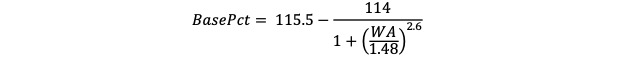
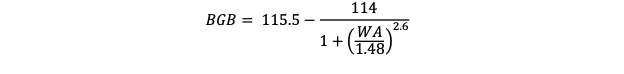
Syllabus revisions

Changed region(s): [[0.4872, 0.2432, 0.7003, 0.7297], [0.3045, 0.1622, 0.5481, 0.3514], [0.5481, 0.027, 0.6394, 0.1892]]

diff --git a/docs/syllabus.md b/docs/syllabus.md
@@ -119,17 +119,17 @@ Final coures grades will be assigned based on homework, lab and exam scores as d
    Homework   | 60%
    Labs       | 40%
 
-2. That *weighted average* will be used to compute a *base percentage* for the course using the scale below:
+2. That *weighted average* will be used to compute a *base grade percentage* for the course using the scale below:
 
-   ![Graph of conversion scale from weighted average to base percentage.](images/BasePercentGraph.jpg)
+   ![Graph of conversion scale from weighted average to base grade percentage.](images/BasePercentGraph.jpg)
 
-   The precice formula for the conversion from a *weighted average* to a *base percentage* is:
+   The precice formula for the conversion from a *weighted average* (WA) to a *base grade percentage* (BGP) is:
 
    ![Formula for converting weighted average to base percentage.](images/WeightedAveToBasePct.jpg)
+ 
+3. Your *base grade percentage* will be rounded to the nearest whole number and converted to a *base grade* using a standard grading scale as follows:
 
-3. Your *base percentage* will be rounded to the nearest whole number and is converted into a *base grade* using a standard grading scale as follows:
-
-   Base<br>Percentage       | Base<br>Grade
+   Base Grade<br>Percentage | Base<br>Grade
    ------------------------ | -------------
    &gt;= 93%                | A
    &gt;= 90% and &lt; 93%   | A-
@@ -144,10 +144,10 @@ Final coures grades will be assigned based on homework, lab and exam scores as d
    &gt;= 60% and &lt; 63%   | D-
    &lt; 60%                 | F
 
-4. Your *base grade* is then adjusted up or down based on your exam scores to determine your *course grade*.  Exam scores will be averaged with each midterm having a weight of 30% and the final exam having a weight of 40%.  This average will then be used to adjust your *base grade* up or down as follows:
+4. Your *base grade* is then adjusted up or down based on your exam scores to determine your *course grade*.  A *weighted exam average* iwll be computed with each midterm having a weight of 30% and the final exam having a weight of 40%.  This *weighted exam average* is used to adjust your *base grade* up or down as follows:
 
    Weighted<br>Exam Average | Base Grade Adjustment
-   ------------------------ | ---------------
+   ------------------------ | -------------------------
    &gt;92%                  | Move up one full letter grade (e.g. base grade of B becomes corse grade of A)
    &gt;85%                  | Move up one half letter grade (e.g. base grade of B becomes course grade of B+)
    &lt;73%                  | Move down one half letter grade (e.g. base grade of B becomes course grade of B-)
